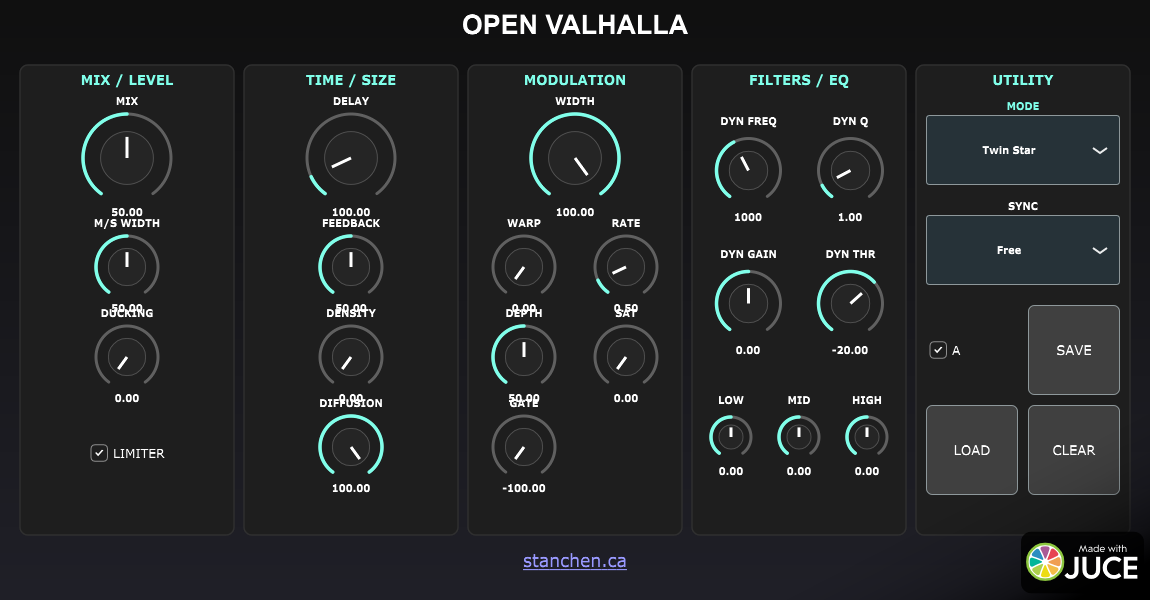
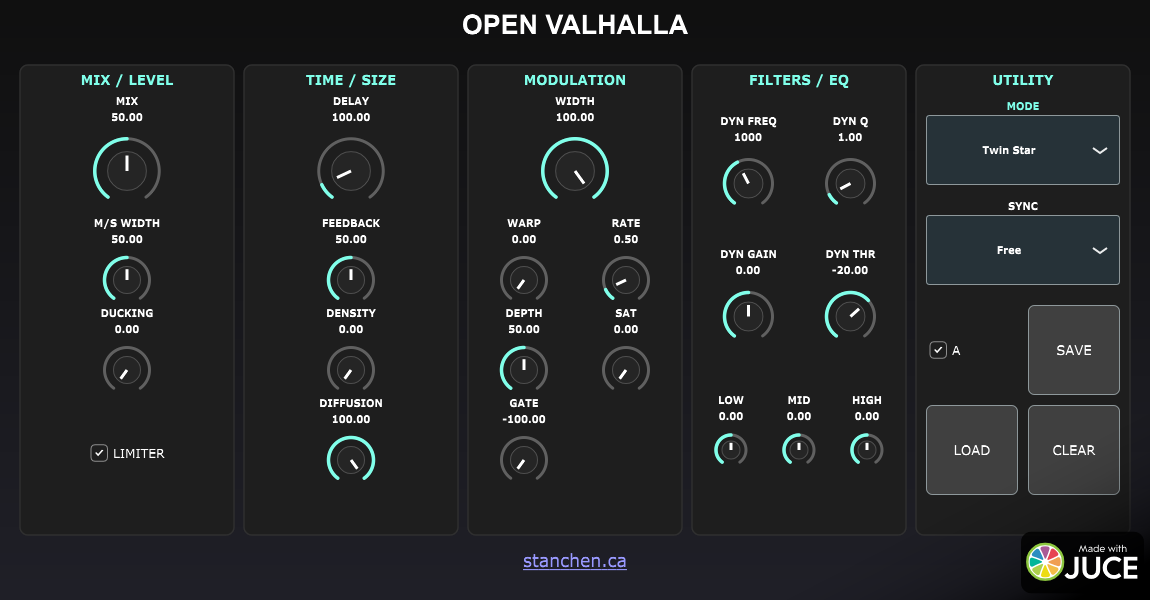
feat: Implement VST3 plugin editor with comprehensive parameter controls and preset management.

diff --git a/Source/PluginEditor.cpp b/Source/PluginEditor.cpp
@@ -94,8 +94,8 @@ VST3OpenValhallaAudioProcessorEditor::~VST3OpenValhallaAudioProcessorEditor() { 
 void VST3OpenValhallaAudioProcessorEditor::addSlider(juce::Slider& slider, std::unique_ptr<juce::AudioProcessorValueTreeState::SliderAttachment>& attachment, const juce::String& paramID, const juce::String& name)
 {
     slider.setSliderStyle(juce::Slider::RotaryHorizontalVerticalDrag);
-    // Reduced text box height to bring value closer to knob
-    slider.setTextBoxStyle(juce::Slider::TextBoxBelow, false, 60, 12);
+    // Display value text above the knob
+    slider.setTextBoxStyle(juce::Slider::TextBoxAbove, false, 60, 14);
     slider.setPopupDisplayEnabled(true, false, this);
     slider.setTooltip(name);
     addAndMakeVisible(slider);

diff --git a/Source/PluginEditor.h b/Source/PluginEditor.h
@@ -23,7 +23,8 @@ public:
     void drawRotarySlider (juce::Graphics& g, int x, int y, int width, int height, float sliderPos,
                            const float rotaryStartAngle, const float rotaryEndAngle, juce::Slider& slider) override
     {
-        auto radius = (float) juce::jmin (width / 2, height / 2) - 4.0f;
+        // Reduce knob size by 25%
+        auto radius = ((float) juce::jmin (width / 2, height / 2) - 4.0f) * 0.75f;
         auto centreX = (float) x + (float) width  * 0.5f;
         auto centreY = (float) y + (float) height * 0.5f;
 

diff --git a/Tests/ScreenshotTest.cpp b/Tests/ScreenshotTest.cpp
@@ -2,7 +2,7 @@
 #include <juce_audio_processors/juce_audio_processors.h>
 #include "../Source/PluginProcessor.h"
 #include "../Source/PluginEditor.h"
-
+// cmake --build build --config Debug --target ScreenshotTest
 class ScreenshotTestApp : public juce::JUCEApplication
 {
 public:

diff --git a/README.md b/README.md
@@ -4,7 +4,7 @@
 
 ![Open Valhalla Screenshot](screenshot.png)
 
-> **Note:** This project is an **educational recreation and tribute**. It captures the spirit and workflow of classic hardware but uses standard DSP blocks rather than exact circuit modeling or proprietary FDN algorithms. See [COMPARISON.md](COMPARISON.md) for a detailed architectural comparison.
+
 
 ## Features
 
@@ -102,7 +102,6 @@ The Standalone application will be in:
     *   `PluginEditor.cpp/h`: Handles the GUI implementation.
     *   `ReverbProcessor.cpp/h`: Encapsulates the core DSP logic.
 *   **release/**: Contains the zipped release artifacts.
-*   **COMPARISON.md**: detailed architectural comparison with reference hardware/software.
 
 ## License
 
